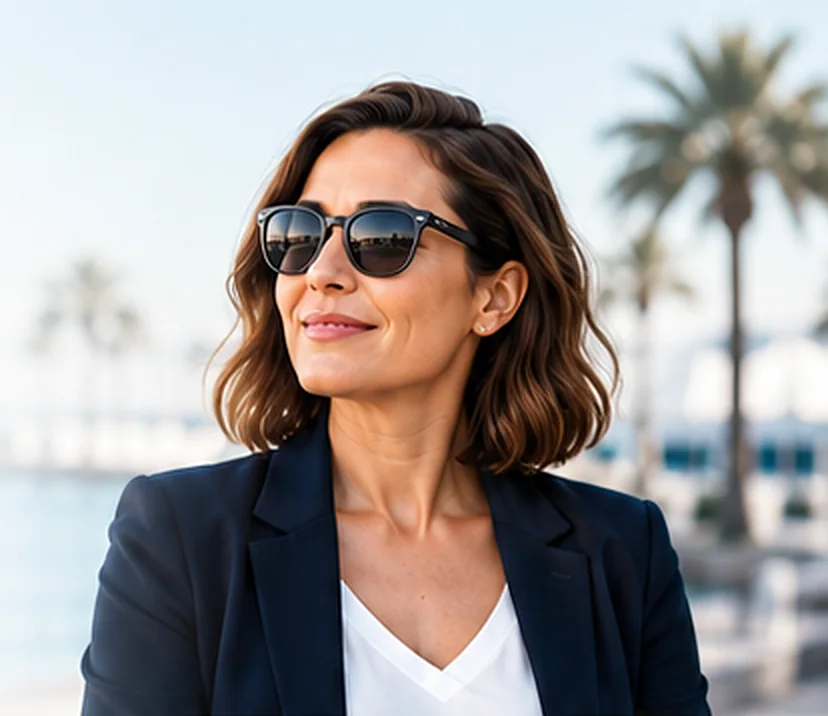
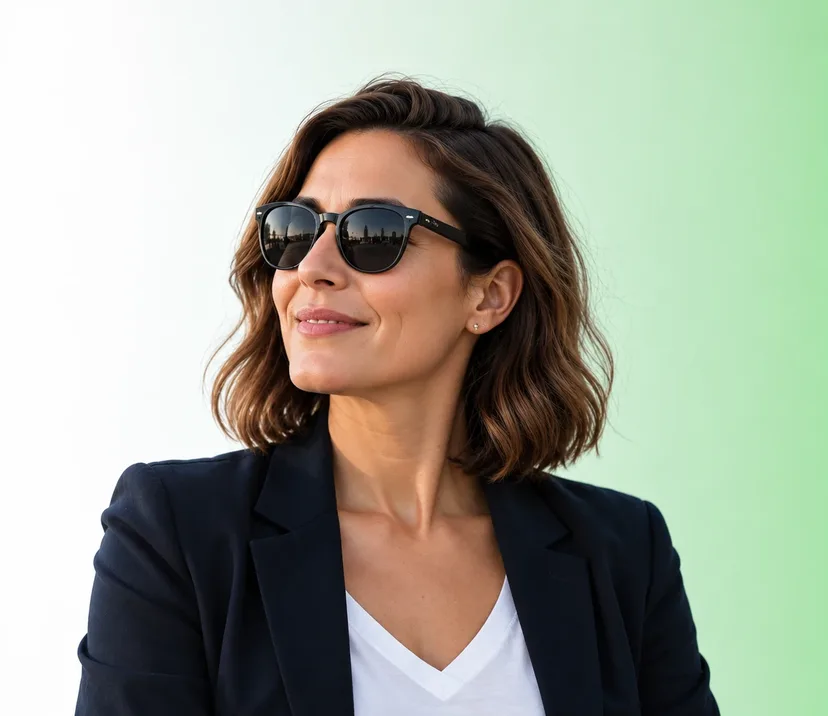
Anleihen-Beispiele nach Ziel: neues Titelfoto oben (Nutzerwunsch)

diff --git a/guide.html b/guide.html
@@ -30,7 +30,7 @@
 <link rel="stylesheet" href="bildwelt2.css">
 <link rel="preload" href="manrope-400.woff2" as="font" type="font/woff2" crossorigin>
 <link rel="preload" href="manrope-700.woff2" as="font" type="font/woff2" crossorigin>
-<link rel="preload" as="image" href="guide-hero.webp" media="(min-width: 761px)">
+<link rel="preload" as="image" href="guide-hero.webp?v=2" media="(min-width: 761px)">
 <style>
   /* Guide (neu nach Entwurf des Nutzers, 24.09.2026): Hero mit Foto, Personen-Karten als Reiter, eine Anleitung
      sichtbar (ohne JS alle), Seitenspalte mit drei Kästen, Vorteile-Band. Grundregeln in base.css. */
@@ -284,7 +284,7 @@
         <h1 id="h-guide">Anleihen-Beispiele <span class="hl">nach Ziel</span></h1>
         <p class="sub">Wähle die Person, die dir am nächsten kommt: Ziel, Kriterien und die passende Suche – Schritt für Schritt erklärt.</p>
       </div>
-      <img class="gh-img" src="guide-hero.webp" width="828" height="716" alt="" fetchpriority="high" decoding="async">
+      <img class="gh-img" src="guide-hero.webp?v=2" width="828" height="716" alt="" fetchpriority="high" decoding="async">
     </section>
     <div class="personas" id="personas" role="tablist" aria-label="Person wählen">
       <a class="pc" id="t-nadine" href="#nadine" role="tab" aria-selected="true" aria-controls="nadine" data-k="nadine"><span class="pc-img"><img src="guide-nadine.webp?v=2" width="248" height="248" alt="" decoding="async"><svg class="b2-ring" viewBox="0 0 56 56" aria-hidden="true" focusable="false" fill="none" stroke="#1A1A19" stroke-width="2" stroke-linecap="round" stroke-linejoin="round"><circle cx="28" cy="28" r="27" stroke="#E4E3DF"/><path d="M28 1A27 27 0 0 1 41.50 4.62" stroke="#157C00" stroke-width="3" stroke-linecap="butt"/><circle cx="41.50" cy="4.62" r="3.75" fill="#39FF14" stroke-width="1.5"/></svg></span><b>Nadine, 36</b><span class="pc-r">Selbstständige</span><span class="pc-z">parkt 20.000&nbsp;€ für ca. 12&nbsp;Monate</span><span class="pc-go" aria-hidden="true"><svg viewBox="0 0 24 24" fill="none" stroke="currentColor" stroke-width="2.2" stroke-linecap="round" stroke-linejoin="round" aria-hidden="true" focusable="false"><path d="M5 12h13M13 6.5l5.5 5.5-5.5 5.5"/></svg></span></a>
